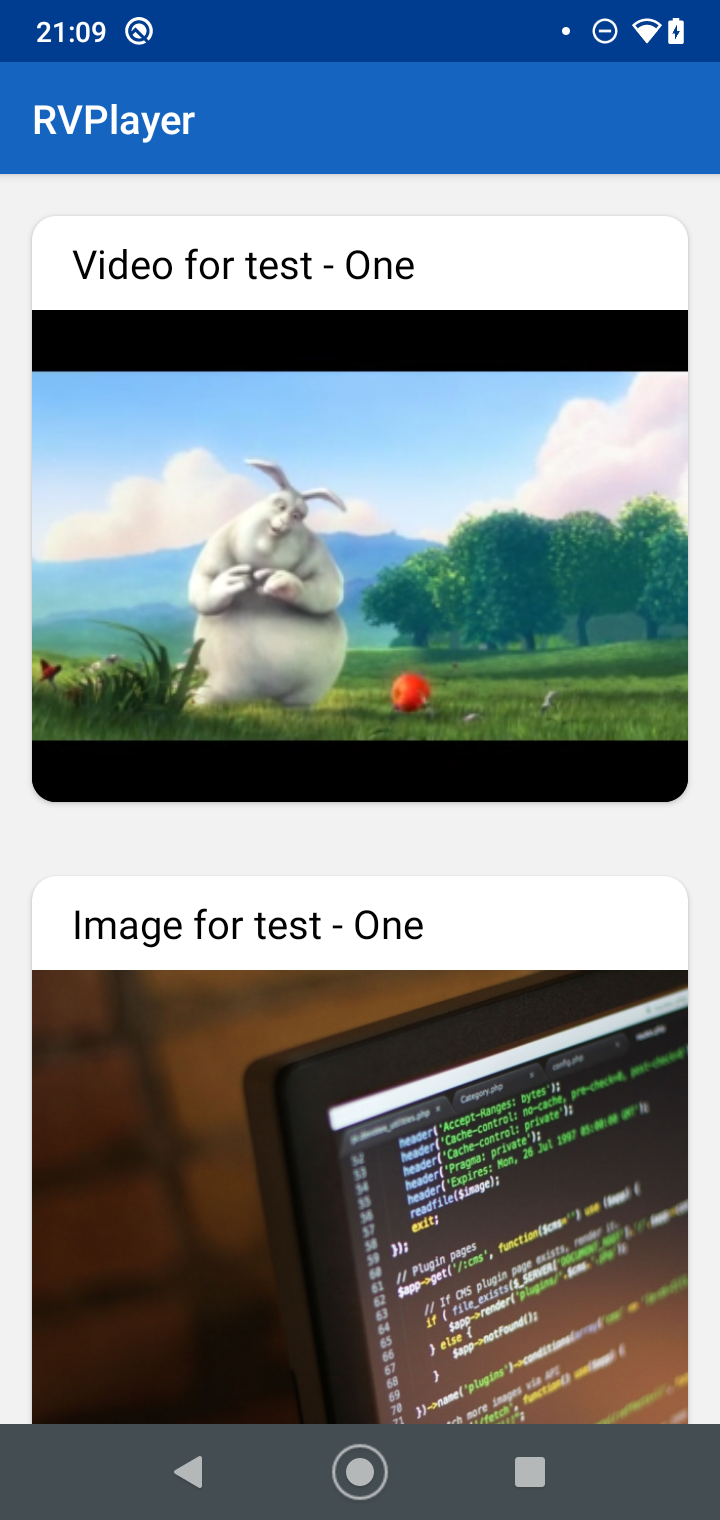
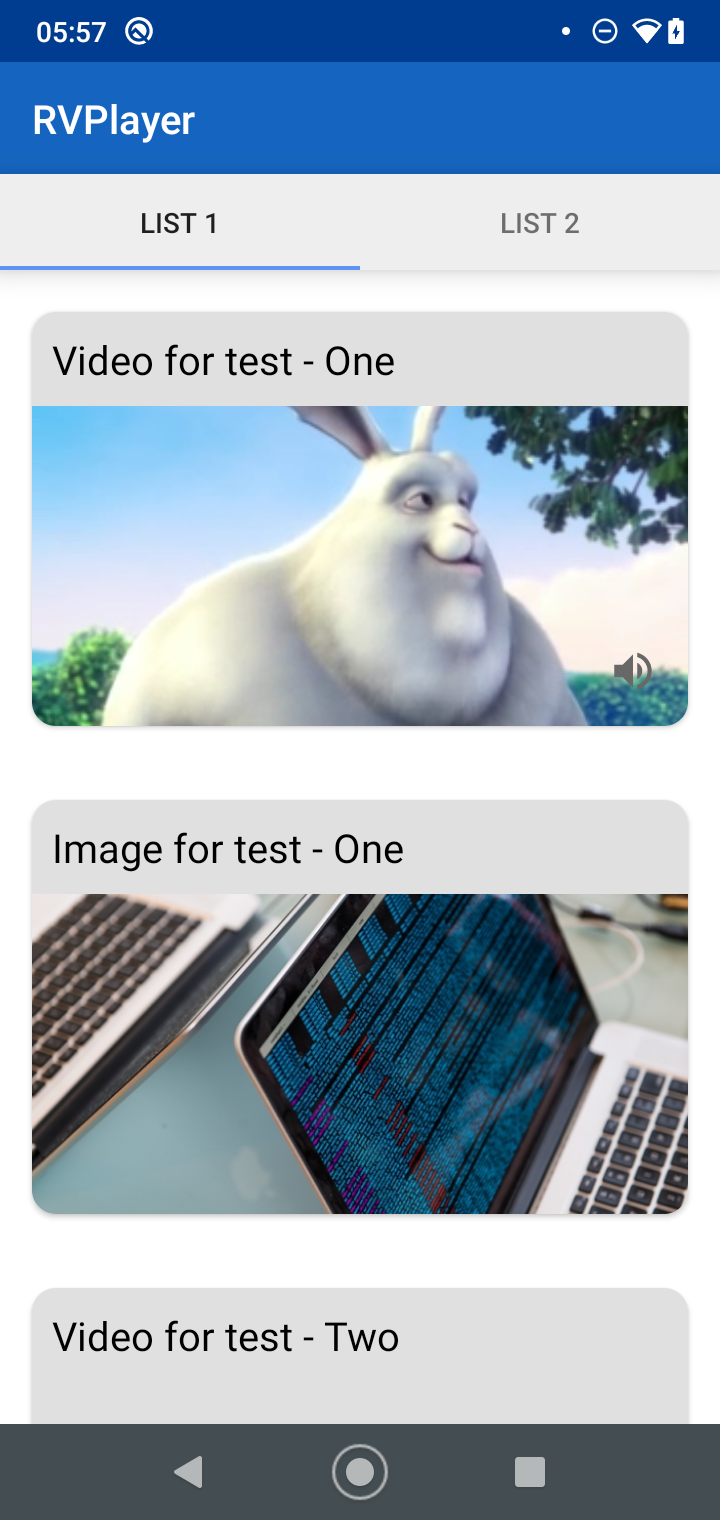
refactored all and support for multiple players

diff --git a/app/src/main/java/com/paulocoutinho/rvplayer/util/Resources.kt b/app/src/main/java/com/paulocoutinho/rvplayer/util/Resources.kt
@@ -8,7 +8,7 @@ object Resources {
             MediaObject(
                     "Video for test - One",
                     "https://www.learningcontainer.com/wp-content/uploads/2020/05/sample-mp4-file.mp4",
-                    "https://dummyimage.com/600x480/cccccc/000000.png",
+                    "https://dummyimage.com/600x480/E0E0E0/000000.png",
                     "Description for media object #1",
                     MediaObject.MediaType.VIDEO,
             ),
@@ -24,7 +24,7 @@ object Resources {
             MediaObject(
                     "Video for test - Two",
                     "https://www.learningcontainer.com/wp-content/uploads/2020/05/sample-mp4-file.mp4",
-                    "https://dummyimage.com/600x480/cccccc/000000.png",
+                    "https://dummyimage.com/600x480/E0E0E0/000000.png",
                     "Description for media object #3",
                     MediaObject.MediaType.VIDEO,
             ),
@@ -40,7 +40,7 @@ object Resources {
             MediaObject(
                     "Video for test - Three",
                     "https://www.learningcontainer.com/wp-content/uploads/2020/05/sample-mp4-file.mp4",
-                    "https://dummyimage.com/600x480/cccccc/000000.png",
+                    "https://dummyimage.com/600x480/E0E0E0/000000.png",
                     "Description for media object #5",
                     MediaObject.MediaType.VIDEO,
             ),
@@ -56,7 +56,7 @@ object Resources {
             MediaObject(
                     "Video for test - Four",
                     "https://www.learningcontainer.com/wp-content/uploads/2020/05/sample-mp4-file.mp4",
-                    "https://dummyimage.com/600x480/cccccc/000000.png",
+                    "https://dummyimage.com/600x480/E0E0E0/000000.png",
                     "Description for media object #7",
                     MediaObject.MediaType.VIDEO,
             ),
@@ -72,7 +72,7 @@ object Resources {
             MediaObject(
                     "Video for test - Five",
                     "https://www.learningcontainer.com/wp-content/uploads/2020/05/sample-mp4-file.mp4",
-                    "https://dummyimage.com/600x480/cccccc/000000.png",
+                    "https://dummyimage.com/600x480/E0E0E0/000000.png",
                     "Description for media object #9",
                     MediaObject.MediaType.VIDEO,
             ),
